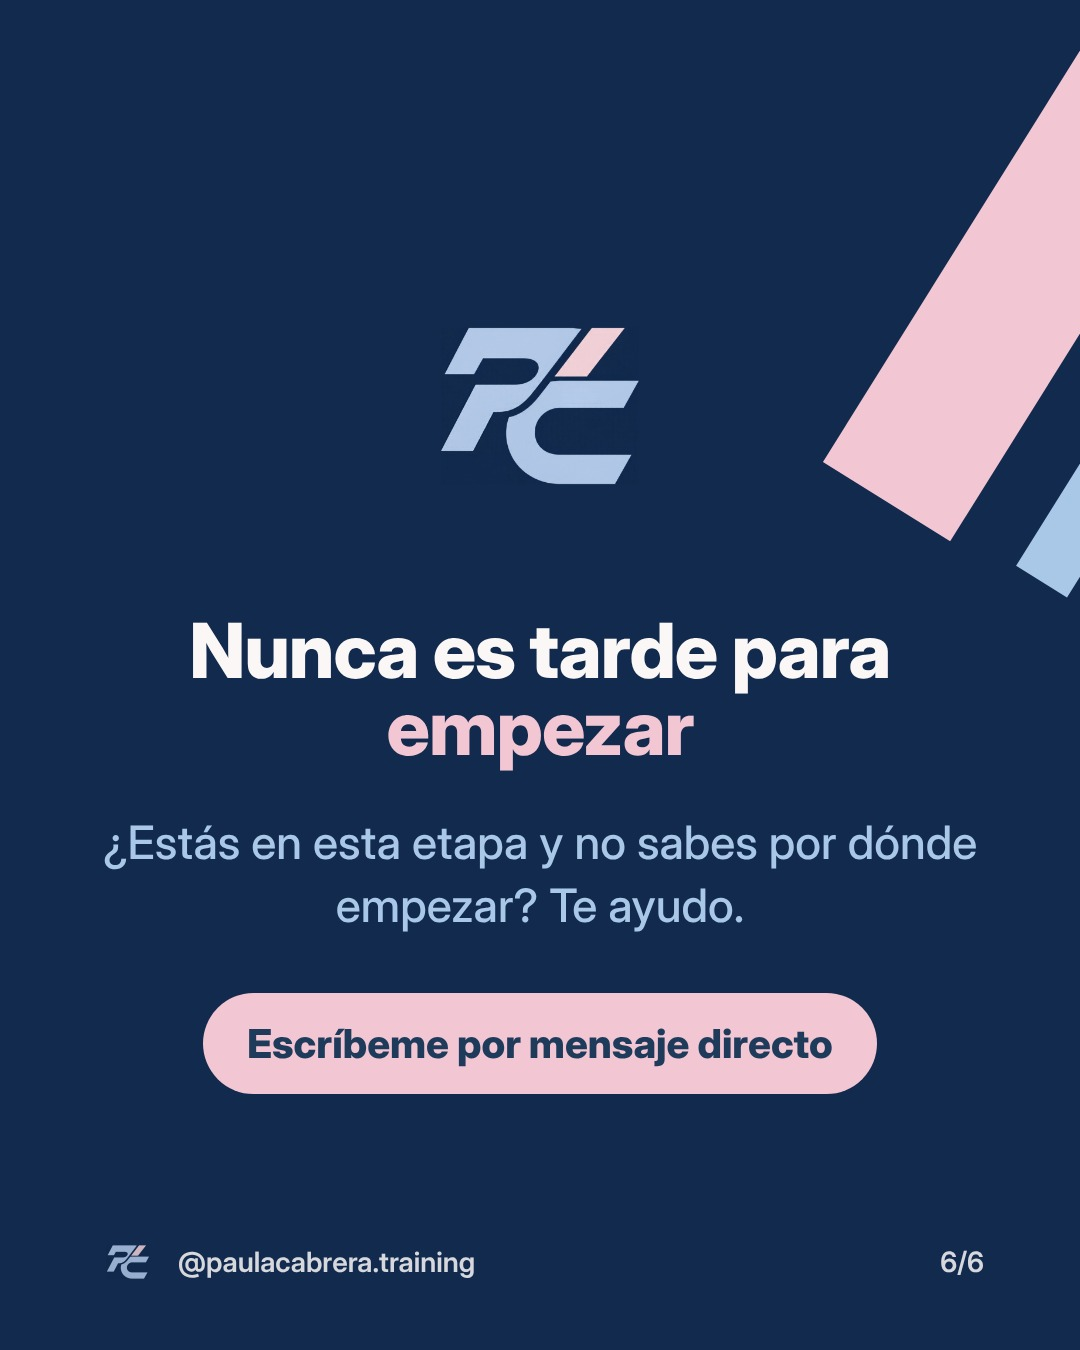
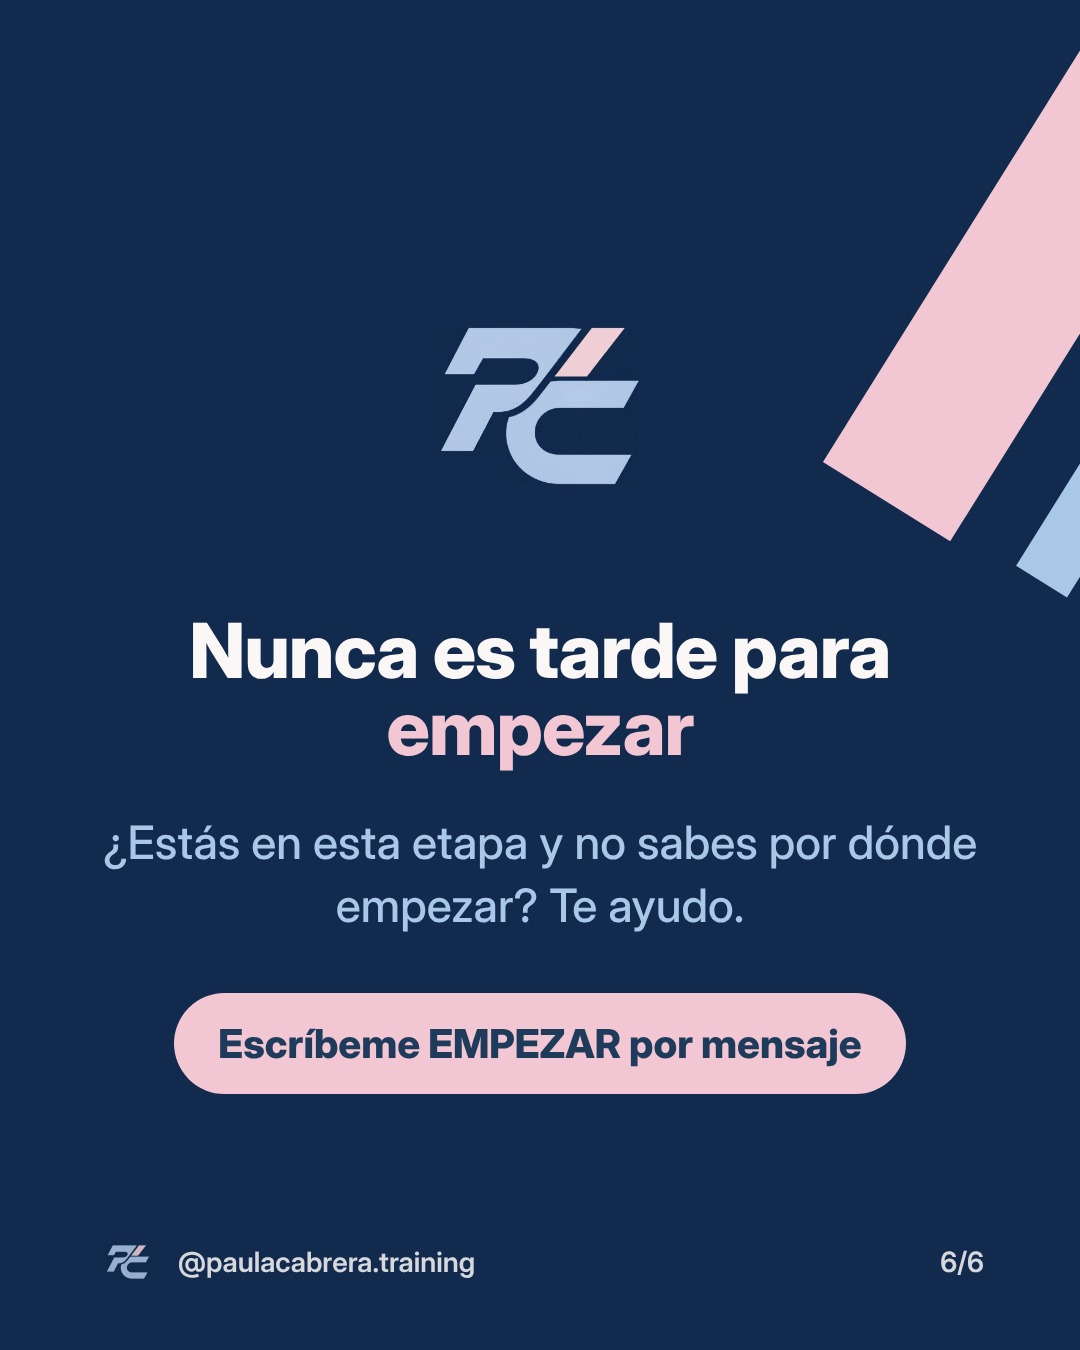
Instagram: cierre por defecto «Escríbeme EMPEZAR» y posts del 10 y 15/11 actualizados
Claude-Session: https://claude.ai/code/session_0181mDtmm7u4Fm3jmCK4EdYA

Changed region(s): [[0.1528, 0.7156, 0.8556, 0.8089]]

diff --git a/instagram/render.js b/instagram/render.js
@@ -43,7 +43,7 @@ function slide(d, i, n, H){
     case 'portada': return `<div class="s dark">${rayas}<h1 style="position:relative;max-width:760px">${marca(d.titulo,d.resaltado)}</h1>${d.sub?`<p class="sub">${md(d.sub)}</p>`:''}${n>1?'<span class="desliza">Desliza →</span>':''}${foot(1)}</div>`;
     case 'texto': return `<div class="s light">${d.num?`<div class="num">${esc(d.num)}</div>`:''}<h2>${marca(d.titulo,d.resaltado)}</h2><p class="txt">${md(d.texto)}</p>${foot()}</div>`;
     case 'lista': return `<div class="s light"><h2>${marca(d.titulo,d.resaltado)}</h2><div class="pts">${(d.puntos||[]).map(p=>`<div class="pt">${check}<span>${md(p)}</span></div>`).join('')}</div>${foot()}</div>`;
-    case 'cierre': return `<div class="s dark cierre">${rayas}<img class="logo" src="${LOGO}" style="position:relative"><h2 style="position:relative">${marca(d.titulo,d.resaltado)}</h2>${d.texto?`<p class="txt" style="color:${C.azul};position:relative">${md(d.texto)}</p>`:''}<span class="pill" style="position:relative">${esc(d.boton||'Escríbeme por mensaje directo')}</span>${foot(1)}</div>`;
+    case 'cierre': return `<div class="s dark cierre">${rayas}<img class="logo" src="${LOGO}" style="position:relative"><h2 style="position:relative">${marca(d.titulo,d.resaltado)}</h2>${d.texto?`<p class="txt" style="color:${C.azul};position:relative">${md(d.texto)}</p>`:''}<span class="pill" style="position:relative">${esc(d.boton||'Escríbeme EMPEZAR por mensaje')}</span>${foot(1)}</div>`;
     default: throw new Error('Tipo de diapositiva desconocido: '+d.tipo);
   }
 }

diff --git a/instagram/CLAUDE.md b/instagram/CLAUDE.md
@@ -11,7 +11,7 @@ En esta carpeta trabajas como gestora profesional del Instagram de Paula: propon
 - **Precios: NO se publican en Instagram** (decisión de Paula, 30/10/2026). Ni en posts, ni en historias, ni en la bio. Quien pregunte, por mensaje directo.
 - Público: no solo mujeres. Mujeres que buscan fuerza y recomposición (también en perimenopausia y menopausia), principiantes y gente que quiere fuerza y resistencia. Ningún mensaje que excluya a los hombres.
 - Diferenciación: fuerza y resistencia, base científica, cercanía y seguimiento semanal con su app de planes.
-- Llamada a la acción: escribir por **mensaje directo de Instagram**. Nunca poner el WhatsApp ni el teléfono de Paula en Instagram (ni en posts, historias, bio ni enlace): Paula da su número por privado solo a quien ya tiene claro que quiere la valoración. El cierre por defecto de los carruseles es «Escríbeme por mensaje directo».
+- Llamada a la acción: escribir por **mensaje directo de Instagram**. Nunca poner el WhatsApp ni el teléfono de Paula en Instagram (ni en posts, historias, bio ni enlace): Paula da su número por privado solo a quien ya tiene claro que quiere la valoración. El cierre por defecto (decisión de Paula, 06/11/2026) es «Escríbeme EMPEZAR por mensaje directo»: en el botón de la última diapositiva «Escríbeme EMPEZAR por mensaje» y en el texto del post «Escríbeme EMPEZAR por mensaje directo y te cuento cómo trabajo» (o adaptado al post).
 - La tarjeta y el cartel (en persona) sí llevan el QR de WhatsApp: eso no cambia.
 
 ## Identidad visual
